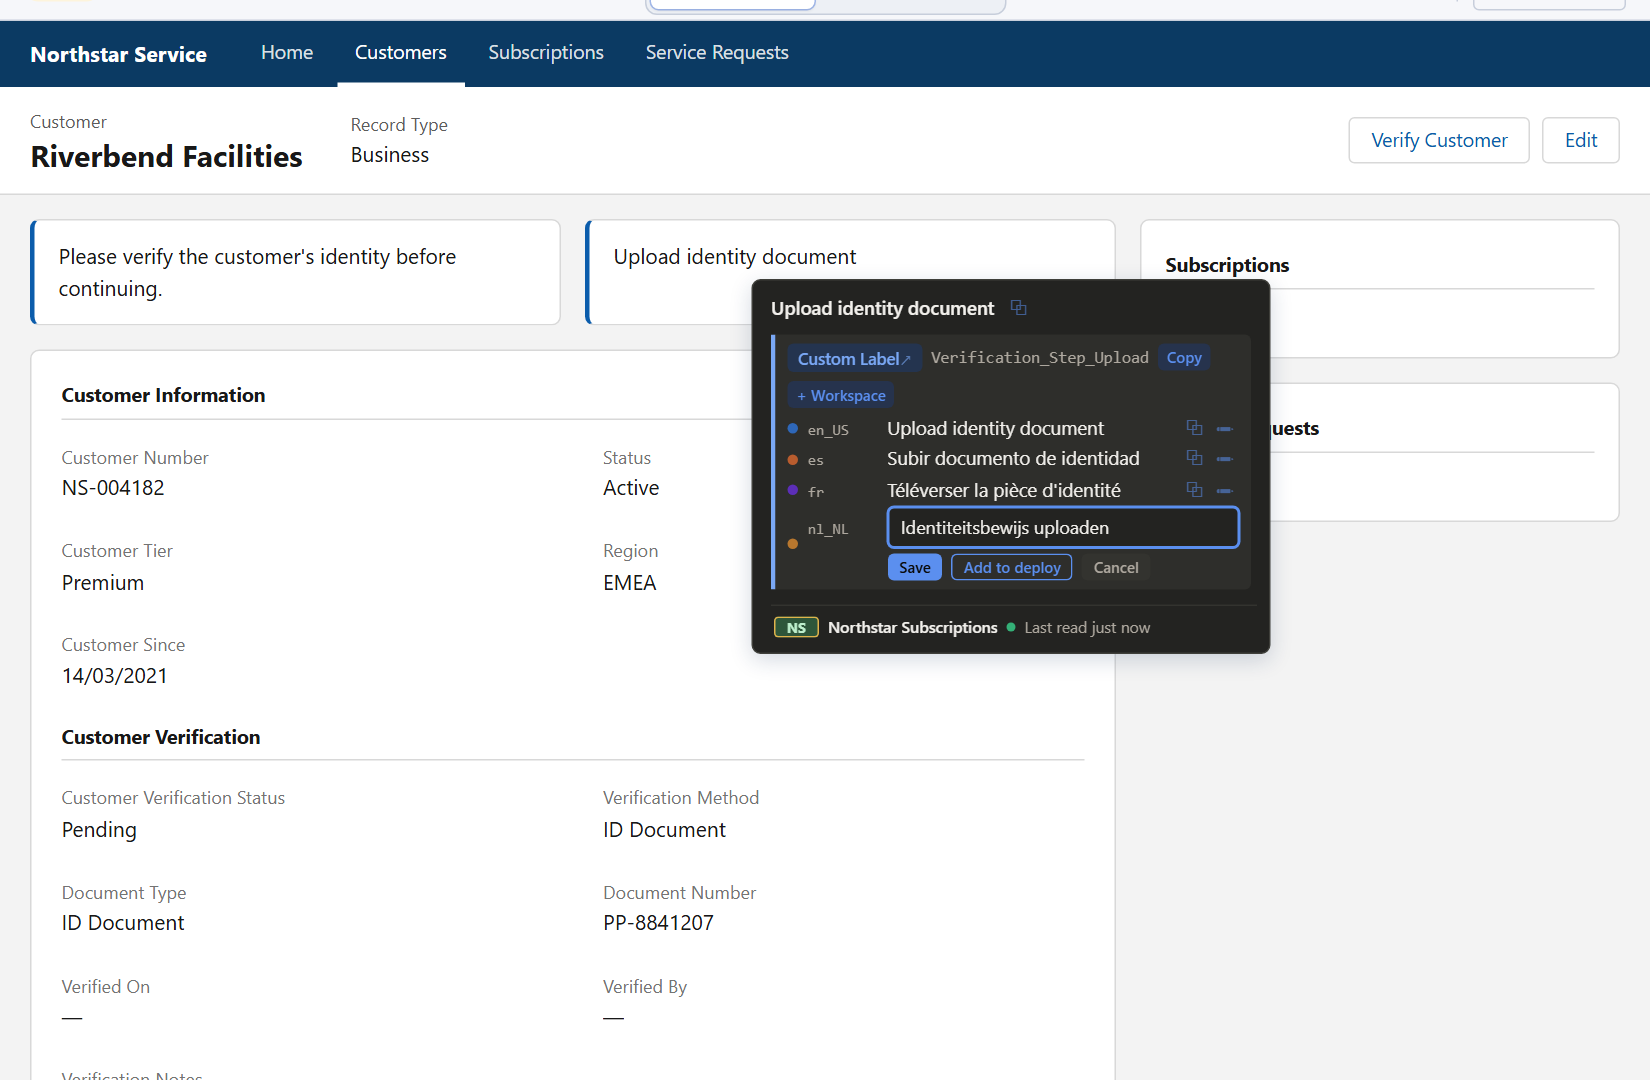
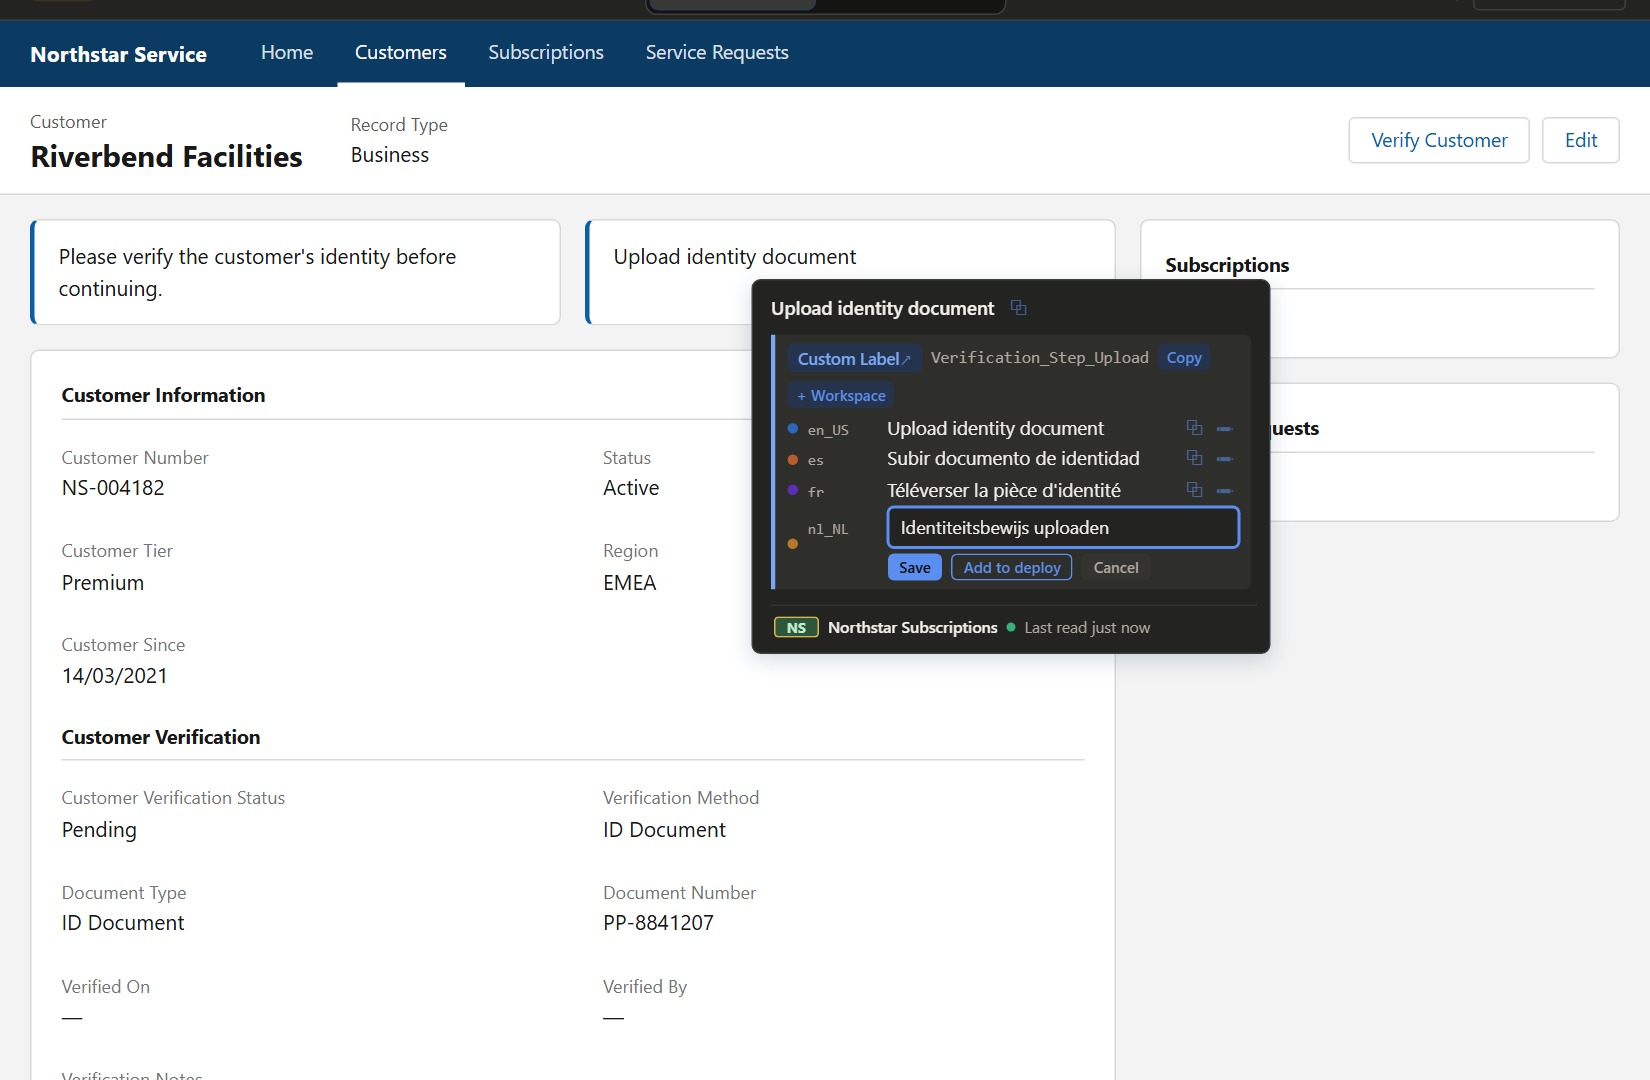
docs: refresh public projection from 86aada9d9465
Privacy policy Version 7 (section 12, English and Spanish): the website runs one script of its own, which remembers the light or dark theme you choose in your browser's local storage and cannot send anything (#404). The README and the 1.0.0 release notes link the live Chrome Web Store listing (#402); the README's picture is recaptured from the current demo.

Changed region(s): [[0.0, 0.0, 1.0, 0.0306]]

diff --git a/README.md b/README.md
@@ -6,15 +6,15 @@
 
 **Sextant — Salesforce Metadata & Translations** identifies the Salesforce metadata behind the text on a Lightning page and shows its translations in every language the org has. Hover any text in Salesforce Lightning and Sextant tells you what it is — the field, picklist value, Custom Label or object behind it — with its API name and every translation, editable in place. Then it keeps track: what changed, who changed it when that is known, and whether it reached every org.
 
-<a href="https://usesextant.dev/demo/?scenario=hover"><picture><source media="(prefers-color-scheme: dark)" srcset="assets/sextant-hover-dark.png"><img src="assets/sextant-hover-light.png" width="1100" alt="A Salesforce record page. Sextant's tooltip names the text under the pointer — the Custom Label Verification_Step_Upload, &quot;Upload identity document&quot; — shows it in English, Spanish and French, and has its missing Dutch translation typed in place, ready to save."></picture></a>
+<a href="https://usesextant.dev/demo/?scenario=hover"><picture><source media="(prefers-color-scheme: dark)" srcset="assets/sextant-hover-dark.png"><img src="assets/sextant-hover-light.png" width="1100" alt="A Salesforce record page. Sextant's tooltip identifies the text under the pointer as the Custom Label Verification_Step_Upload (&quot;Upload identity document&quot;), shows it in English, Spanish and French, and has the missing Dutch translation typed in place, ready to save."></picture></a>
 
-<sub>Hold a key, point at any text on the page: Sextant says what it is, and you fix it there. The real product, photographed in the demo. Northstar Subscriptions does not exist.</sub>
+<sub>Hold a key and point at any text on the page. Sextant tells you what it is, and you can fix it right there. Screenshot of the real product in the demo. Northstar Subscriptions is a fictional org.</sub>
 
 There is no server, no account and no telemetry. Sextant works with the Salesforce session you already have and keeps what it keeps in your browser profile.
 
 **Try it without installing anything:** [the interactive demo](https://usesextant.dev/demo/) runs the real Sextant interface and background process in your browser, against Northstar, a fictional Salesforce org. Nothing is sent anywhere. [How the demo works](https://usesextant.dev/demo/how-it-works/).
 
-**Install:** not on the Chrome Web Store yet. When it is, the link will appear here, on the website and in the release notes — from one setting, so they cannot disagree. Nothing in this repository is meant to be installed by hand.
+**Install:** [Chrome Web Store](https://chromewebstore.google.com/detail/sextant-%E2%80%94-salesforce-meta/epmkijnbmfljbnhhofklnggkclljnebk)
 
 **Website:** https://usesextant.dev · [Product](https://usesextant.dev/features/) · [Guides](https://usesextant.dev/guides/) · [Trust Center](https://usesextant.dev/trust/) · [Changelog](https://usesextant.dev/changelog/)
 
@@ -77,4 +77,4 @@ Support: support@usesextant.dev. Bug reports and feature requests are welcome as
 
 ---
 
-Sextant is an independent product. It is not made, endorsed or supported by Salesforce, Inc. Salesforce and Lightning are trademarks of Salesforce, Inc., used only to describe what Sextant works with. Made and published by Manuel Roldán Pérez. Version 1.0.0 (not on the Chrome Web Store yet).
+Sextant is an independent product. It is not made, endorsed or supported by Salesforce, Inc. Salesforce and Lightning are trademarks of Salesforce, Inc., used only to describe what Sextant works with. Made and published by Manuel Roldán Pérez. Version 1.0.0.

diff --git a/PRIVACY.es.md b/PRIVACY.es.md
@@ -1,6 +1,6 @@
 # Política de privacidad — Sextant
 
-**Versión 6 · Última actualización: 2026-09-28** · [English version](PRIVACY.md)
+**Versión 7 · Última actualización: 2026-09-29** · [English version](PRIVACY.md)
 
 > **Traducción.** Esta es una traducción de la política en inglés, que es la que prevalece en caso de
 > discrepancia. Ambas se actualizan a la vez.
@@ -184,13 +184,16 @@ límites.
 
 El sitio web de Sextant (`https://usesextant.dev`) y la demo interactiva que aloja (`/demo/`) son páginas estáticas.
 
-- **El sitio web** no crea cookies, no ejecuta ningún script, no tiene analítica y no carga fuentes, estilos,
-  scripts ni imágenes de ningún otro sitio. Como en cualquier sitio web, el proveedor de alojamiento recibe cada
+- **El sitio web** no crea cookies, no tiene analítica y no carga fuentes, estilos, scripts ni imágenes de ningún
+  otro sitio. El único script que ejecuta es suyo: recuerda el tema claro u oscuro que elijas, en el almacenamiento
+  local de tu navegador y en ningún otro sitio, y no puede enviar nada (la política de seguridad de contenidos del
+  sitio no le permite ninguna solicitud). Como en cualquier sitio web, el proveedor de alojamiento recibe cada
   solicitud —la página solicitada, tu dirección IP y la identificación de tu navegador— bajo sus propias condiciones.
 - **La demo** ejecuta el propio código de Sextant en tu navegador contra una org de Salesforce ficticia. No envía
   nada a ningún sitio: su política de seguridad de contenidos no permite ninguna solicitud salvo la de sus propios
-  archivos, y no guarda nada en el almacenamiento de tu navegador, así que al cerrar la pestaña se descarta todo
-  lo que hiciste en ella.
+  archivos, y no guarda nada en el almacenamiento de tu navegador salvo el tema que elegiste en el sitio web (y,
+  mientras te devuelve al sitio, una nota de una palabra en esa pestaña que el sitio borra al abrirse), así que al
+  cerrar la pestaña se descarta todo lo que hiciste en ella.
 - Ni el sitio web ni la demo se conectan a ninguna org de Salesforce, y nada de lo que haces en la demo llega al
   desarrollador.
 
@@ -204,6 +207,7 @@ de la versión que lo introduzca, y se describirá en las notas de esa versión 
 
 | Versión | Fecha | Cambio |
 |---|---|---|
+| 7 | 2026-09-29 | §12: el sitio web ejecuta ahora un script propio, que recuerda el tema claro u oscuro que elijas en el almacenamiento local de tu navegador y no puede enviar nada; la demo lee la misma elección. Nada cambia en lo que Sextant lee, guarda o envía. |
 | 6 | 2026-09-28 | Se nombra al editor (§0) y el contacto (§14); se indica cuánto tiempo se conserva la correspondencia y con qué base legal (§8); se nombra al proveedor de alojamiento del sitio web (§12). Nada cambia en lo que Sextant lee, guarda o envía. |
 | 5 | 2026-09-28 | Se añade el §15: la Política de Datos de Usuario de Chrome Web Store y sus requisitos de Uso Limitado, tal como se aplican a Sextant. Nada cambia en lo que Sextant lee, guarda o envía. |
 | 4 | 2026-09-22 | Se añade la importación del Setup Audit Trail: qué lee Sextant (§1) y qué guarda (§3) cuando decides importar a Actividad el propio historial de auditoría de tu org; y las opciones de retención del historial de Actividad (§3). |

diff --git a/PRIVACY.md b/PRIVACY.md
@@ -1,6 +1,6 @@
 # Privacy Policy — Sextant
 
-**Version 6 · Last updated: 2026-09-28** · [Versión en español](PRIVACY.es.md) (the English
+**Version 7 · Last updated: 2026-09-29** · [Versión en español](PRIVACY.es.md) (the English
 text governs)
 
 ---
@@ -169,12 +169,16 @@ can reach small, check it automatically, and say plainly where the limits are.
 
 Sextant's website (`https://usesextant.dev`) and the interactive demo it hosts (`/demo/`) are static pages.
 
-- **The website** sets no cookies, runs no script, has no analytics, and loads no font, style, script or
-  image from any other site. As with any website, the hosting provider receives each request — the page
-  requested, your IP address and your browser's identification — under its own terms.
+- **The website** sets no cookies, has no analytics, and loads no font, style, script or image from any other
+  site. The only script it runs is its own: it remembers the light or dark theme you choose, in your browser's
+  local storage and nowhere else, and it cannot send anything (the website's content security policy allows it no
+  request). As with any website, the hosting provider receives each request — the page requested, your IP address
+  and your browser's identification — under its own terms.
 - **The demo** runs Sextant's own code in your browser against a fictional Salesforce org. It sends nothing
   anywhere: its content security policy allows no request except for its own files, and it keeps nothing in
-  your browser's storage, so closing the tab discards everything you did in it.
+  your browser's storage but the theme you chose on the website (and, while it hands you back to the website, a
+  one-word note in that tab, which the website deletes as it opens), so closing the tab discards everything you
+  did in it.
 - Neither the website nor the demo connects to any Salesforce org, and nothing you do in the demo reaches
   the developer.
 
@@ -188,6 +192,7 @@ Each version is dated and numbered. A change to what Sextant collects, stores or
 
 | Version | Date | Change |
 |---|---|---|
+| 7 | 2026-09-29 | §12: the website now runs one script of its own, which remembers the light or dark theme you choose in your browser's local storage and cannot send anything; the demo reads the same choice. No change to what Sextant reads, keeps or sends. |
 | 6 | 2026-09-28 | Named the publisher (§0) and the contact (§14); stated how long correspondence is kept and on what legal basis (§8); named the website's hosting provider (§12). No change to what Sextant reads, keeps or sends. |
 | 5 | 2026-09-28 | Added §15: the Chrome Web Store User Data Policy and its Limited Use requirements, stated as they apply to Sextant. No change to what Sextant reads, keeps or sends. |
 | 4 | 2026-09-22 | Added the Setup Audit Trail import: what Sextant reads (§1) and keeps (§3) when you choose to import your org's own audit history into Activity; and the Activity history's retention choices (§3). |

diff --git a/releases/1.0.0/github-release.md b/releases/1.0.0/github-release.md
@@ -63,7 +63,7 @@ The first public release. Sextant answers one question from the Salesforce page 
 
 ## Install
 
-Not on the Chrome Web Store yet. The official install path is the store listing; nothing here is meant to be installed by hand.
+[Chrome Web Store](https://chromewebstore.google.com/detail/sextant-%E2%80%94-salesforce-meta/epmkijnbmfljbnhhofklnggkclljnebk)
 
 ## Verify
 
